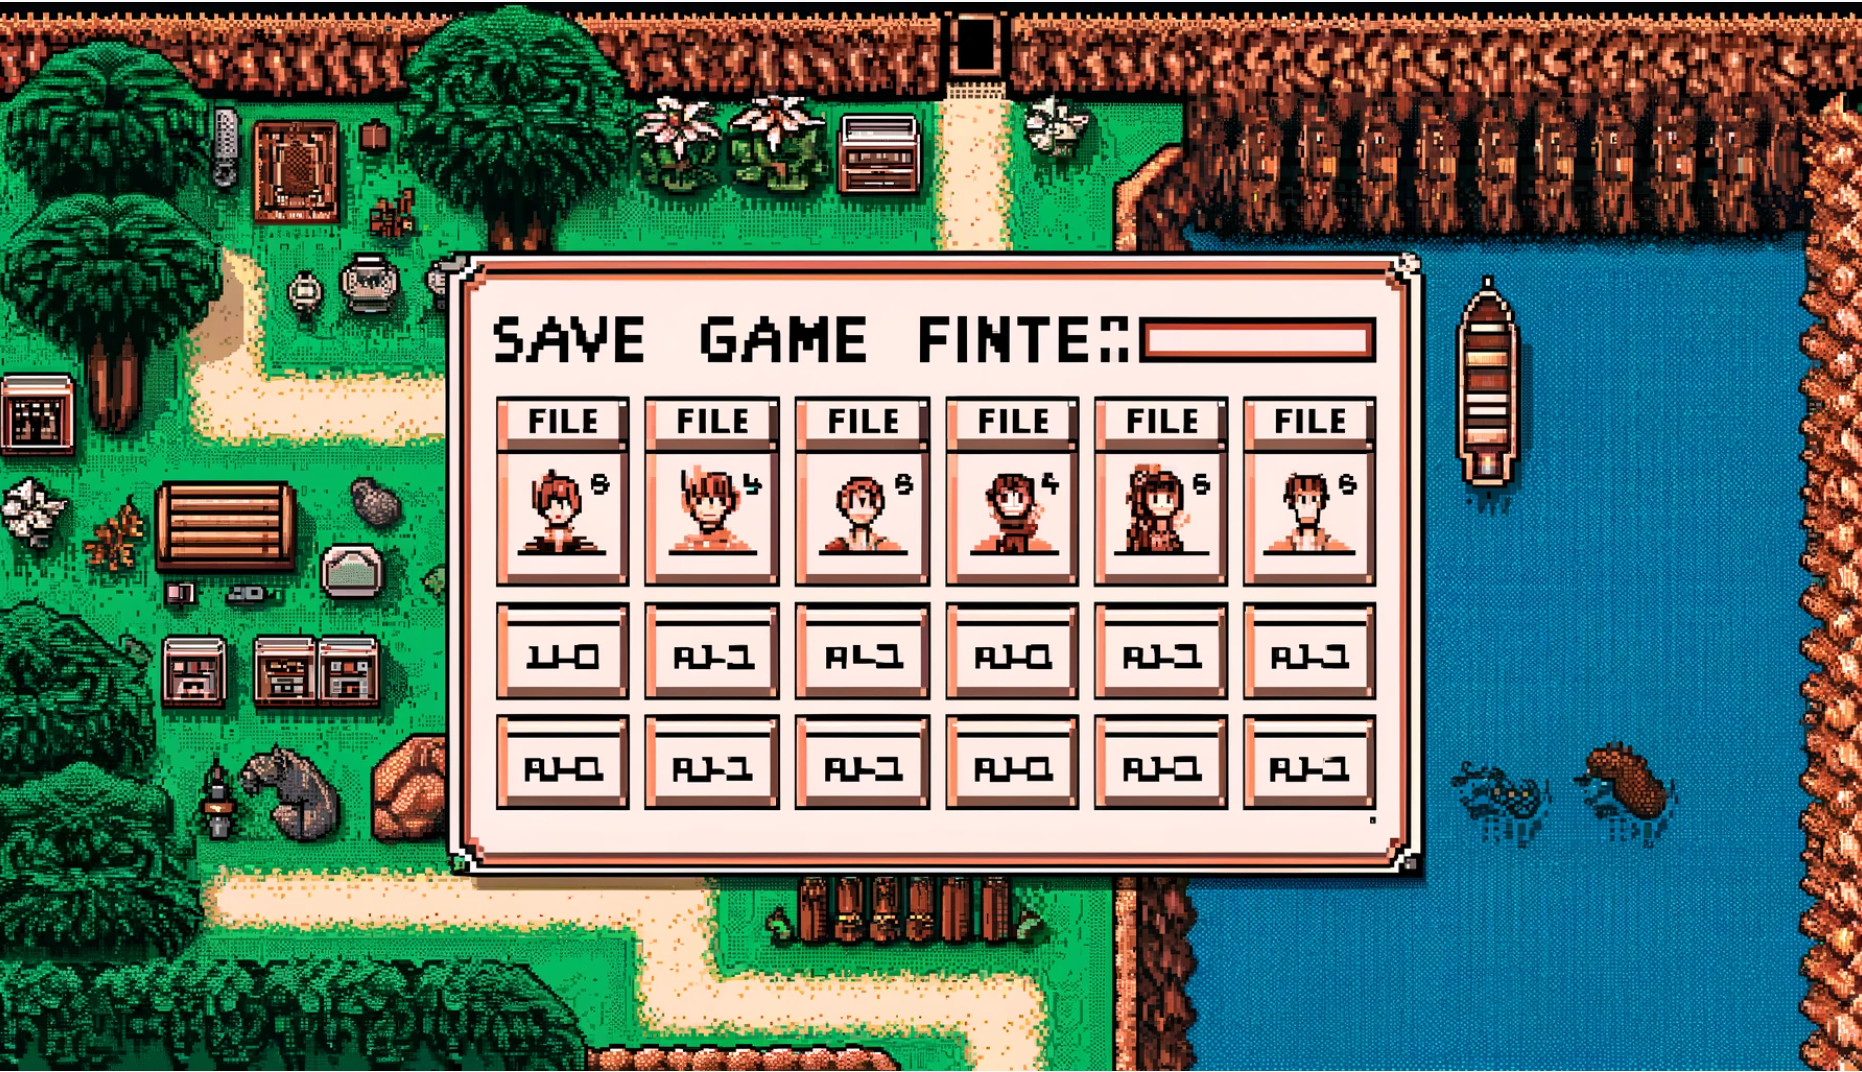
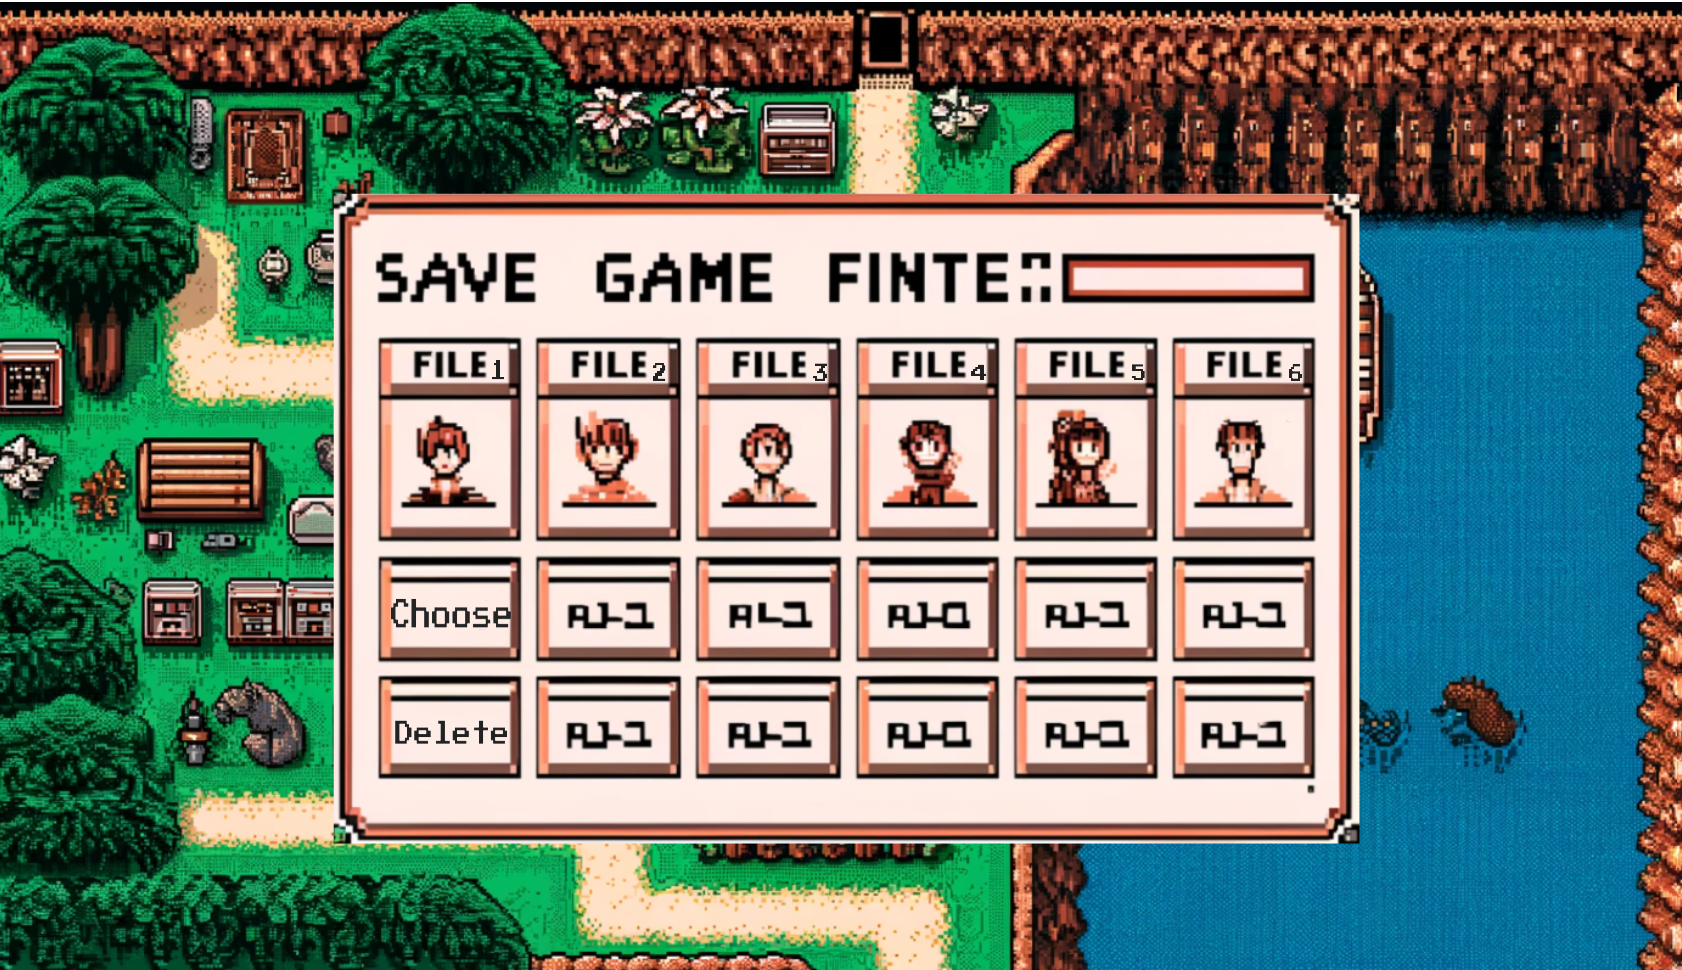
增加choose,delete按鈕，優化savepage圖，目前兩個按鈕都會導入gamepage

diff --git a/core/src/com/simanglam/fighting/SavePage.java b/core/src/com/simanglam/fighting/SavePage.java
@@ -17,13 +17,16 @@ import com.simanglam.Main;
 import com.simanglam.util.AbstractScreen;
 
 public class SavePage extends AbstractScreen {
-
     private SpriteBatch batch;
     private Texture texture;
     private Stage stage;
     private BitmapFont font;
     private TextButton startButton;
     private TextButton backButton;
+    private TextButton deleteButton;
+    private TextButton chooseButton;
+    
+
 
     public SavePage(final Main game) {
         batch = new SpriteBatch();
@@ -32,6 +35,41 @@ public class SavePage extends AbstractScreen {
         font = new BitmapFont();
         Skin skin = new Skin(Gdx.files.internal("data/uiskin.json"));
 
+        Texture deleteButtonTexture = new Texture(Gdx.files.internal("deletebutton.png"));
+        Drawable deleteButtonDrawable = new TextureRegionDrawable(deleteButtonTexture);
+        TextButton.TextButtonStyle deleteButtonStyle = new TextButton.TextButtonStyle();
+        deleteButtonStyle.up = deleteButtonDrawable;
+        deleteButtonStyle.down = deleteButtonDrawable;
+        deleteButtonStyle.font = font;
+        
+        deleteButton = new TextButton("", deleteButtonStyle);
+        deleteButton.setSize(deleteButtonTexture.getWidth() / 8.4f, deleteButtonTexture.getHeight() / 6.5f);
+        deleteButton.setPosition(Gdx.graphics.getWidth() / 2 - deleteButton.getWidth() / 2- 149, Gdx.graphics.getHeight() / 2 - deleteButton.getHeight() / 2 - 120);
+
+        deleteButton.addListener(new ClickListener() {
+            @Override
+            public void clicked(InputEvent event, float x, float y) {
+                game.setScreen(game.getGameScreen());
+            }
+        });
+        Texture chooseButtonTexture = new Texture(Gdx.files.internal("choosebutton.png"));
+        Drawable chooseButtonDrawable = new TextureRegionDrawable(chooseButtonTexture);
+        TextButton.TextButtonStyle chooseButtonStyle = new TextButton.TextButtonStyle();
+        chooseButtonStyle.up = chooseButtonDrawable;
+        chooseButtonStyle.down = chooseButtonDrawable;
+        chooseButtonStyle.font = font;
+
+                
+        chooseButton = new TextButton("", chooseButtonStyle);
+        chooseButton.setSize(chooseButtonTexture.getWidth() / 14.5f, chooseButtonTexture.getHeight() / 12f);
+        chooseButton.setPosition(Gdx.graphics.getWidth() / 2 - chooseButton.getWidth() / 2- 149, Gdx.graphics.getHeight() / 2 - chooseButton.getHeight() / 2 - 60);
+        
+        chooseButton.addListener(new ClickListener() {
+            @Override
+            public void clicked(InputEvent event, float x, float y) {
+                game.setScreen(game.getGameScreen());
+            }
+        });
         Texture startButtonTexture = new Texture(Gdx.files.internal("startbutton.png"));
         Drawable startButtonDrawable = new TextureRegionDrawable(startButtonTexture);
         TextButton.TextButtonStyle startButtonStyle = new TextButton.TextButtonStyle();
@@ -70,8 +108,10 @@ public class SavePage extends AbstractScreen {
 
         stage.addActor(startButton);
         stage.addActor(backButton);
+        stage.addActor(deleteButton);
+        stage.addActor(chooseButton);
 
-        Gdx.input.setInputProcessor(stage);
+        
     }
 
     @Override
@@ -104,4 +144,5 @@ public class SavePage extends AbstractScreen {
     public void handleInput() {
         Gdx.input.setInputProcessor(stage);
     }
+   
 }
